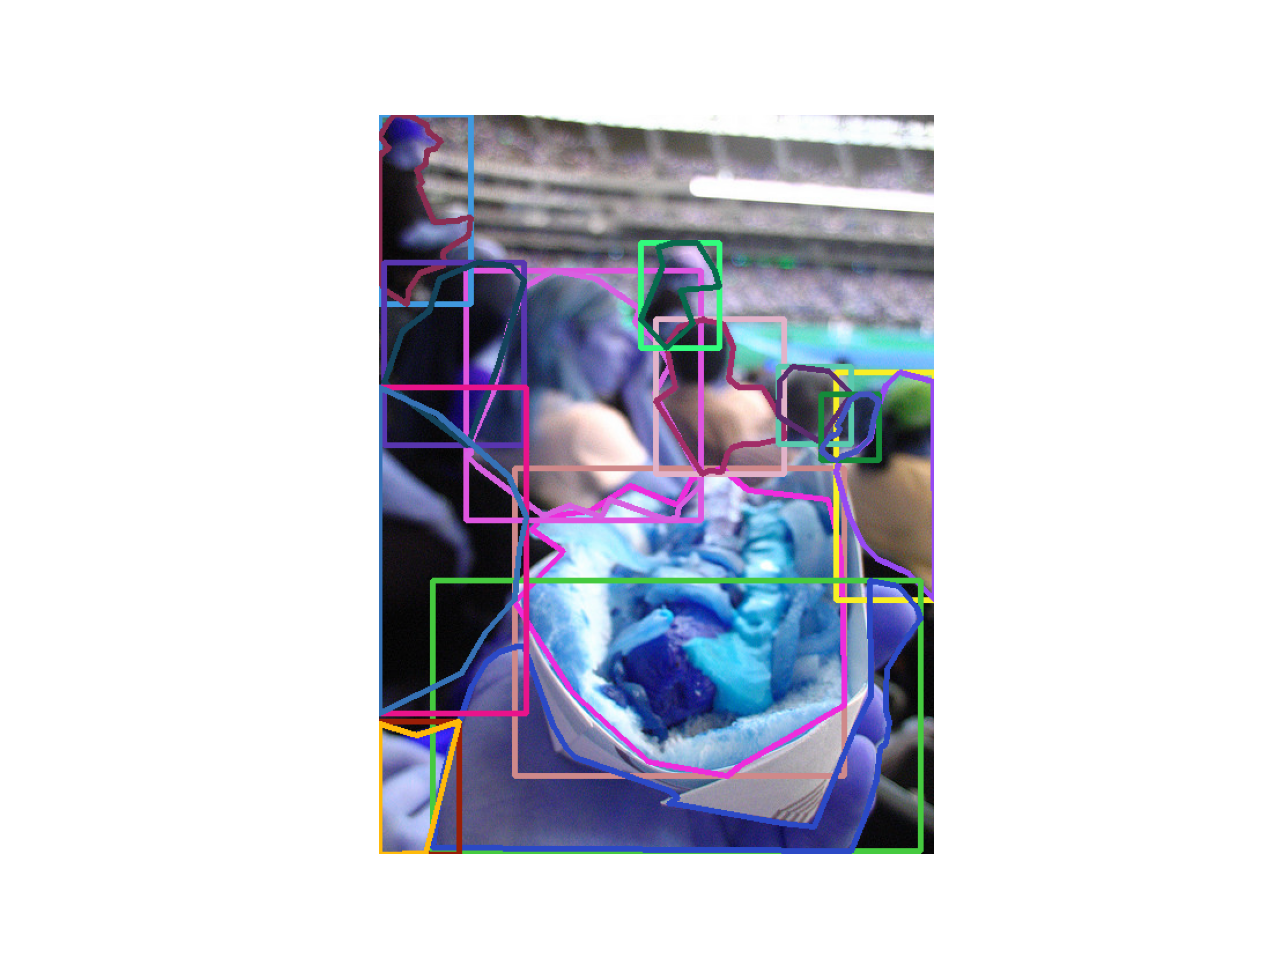
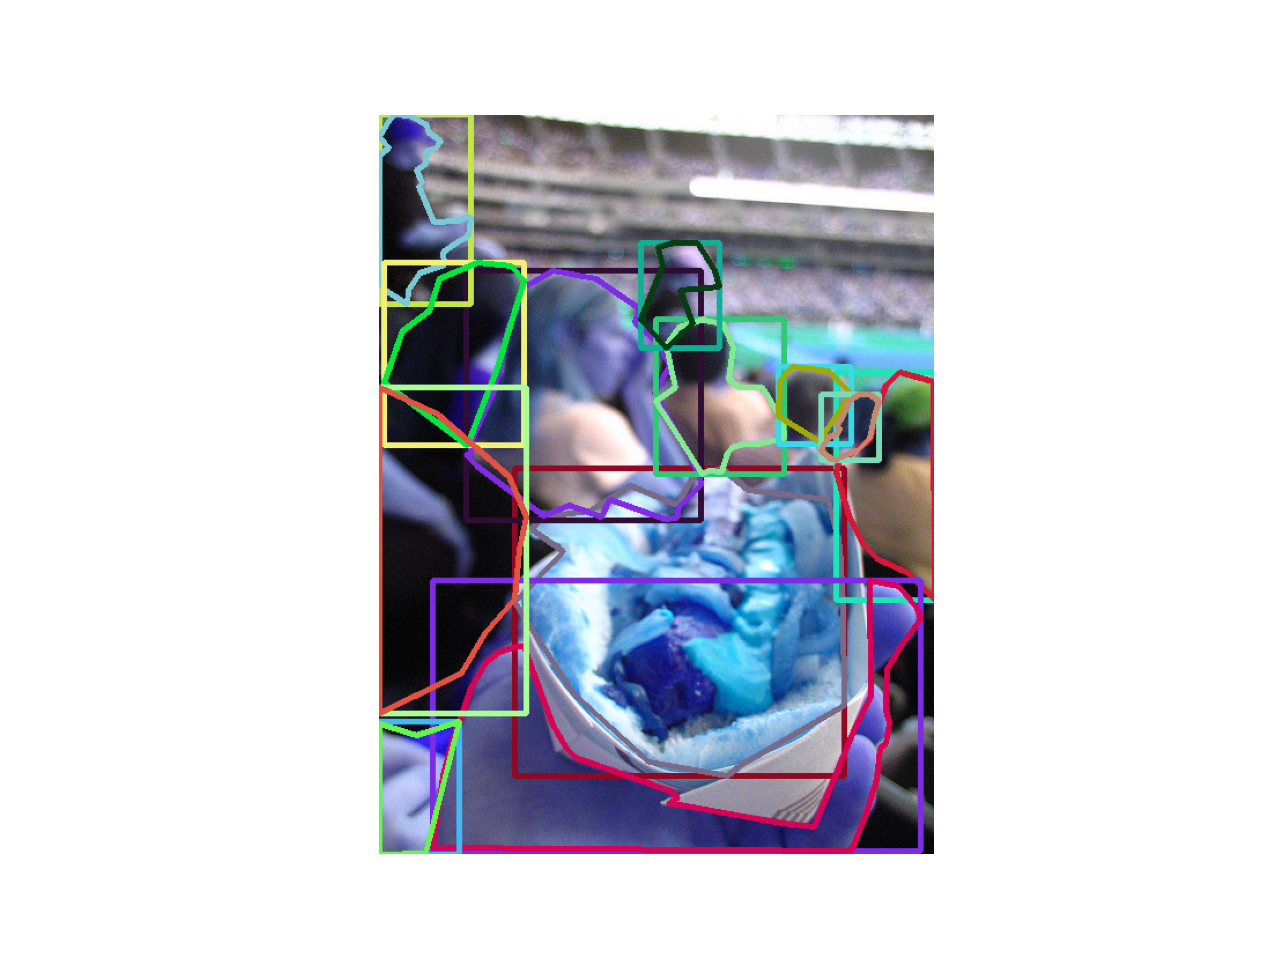
3/26 update -2

Changed region(s): [[0.2812, 0.0938, 0.75, 0.9062]]

diff --git a/coco_visualize_2.py b/coco_visualize_2.py
@@ -8,7 +8,8 @@ from typing import Dict, Tuple, Any, List, Union
 import numpy as np
 import random
 
-import pycocotools
+from pycocotools import mask
+from skimage import measure
 
 
 class CocoDataset:
@@ -27,7 +28,8 @@ class CocoDataset:
                     'id': v['id'],
                     'category_id': self.categories.get(v['category_id']),
                     'bbox': bbox,
-                    'segmentation': np.array(v['segmentation'], dtype=object)
+                    'segmentation': np.array(v['segmentation'], dtype=object),
+                    'iscrowd': v['iscrowd'],
                 }
             )
     def __getitem__(self, index: int) -> Tuple[str, List[Dict[str, Any]]]:
@@ -60,9 +62,9 @@ def draw_masks(
     colors: Dict[str, Tuple[int]]
     ) -> np.ndarray:
     for v in annotations:
-        print('\nannotations:', annotations)
-        print('\nv:', v)
-        print("\nv['segmentation']:", v['segmentation'])
+        # print('\nannotations:', annotations)
+        # print('\nv:', v)
+        # print("\nv['segmentation']:", v['segmentation'])
         for seg in v['segmentation']:
             x_segs = [round(loc) for i, loc in enumerate(seg)
                         if i % 2 == 0]
@@ -103,9 +105,23 @@ def show_fig_4x4(images: List[np.ndarray], file_names: List[str]) -> None:
     plt.show()
     fig.savefig('coco_random_idx_4x4.png')
 
-def RLE2Polygon(RLE):
-    return
-    
+def RLE2Polygon(segmentation: np.ndarray) -> List[float]:
+    segmentation = segmentation.tolist()
+    compressed_rle = mask.frPyObjects(
+        segmentation, 
+        segmentation.get('size')[0], 
+        segmentation.get('size')[1]
+        )
+    ground_truth_binary_mask = mask.decode(compressed_rle)
+    contours = measure.find_contours(ground_truth_binary_mask, 0.5)
+    segmentations = []
+    for contour in contours:
+        contour = np.flip(contour, axis=1)
+        segmentation = contour.ravel().tolist()
+        segmentations.append(segmentation)
+
+    return segmentations
+        
 
 if __name__ == '__main__':
     coco = CocoDataset('../coco/annotations/instances_train2014.json')
@@ -113,9 +129,22 @@ if __name__ == '__main__':
     num_images = list(range(len(coco)))
     random.shuffle(num_images)
     random_idxs = num_images[:4]
-    print(coco[random_idxs[0]])
-    print(random_idxs)
-    
+
+    for i, idx in enumerate(random_idxs):
+        print(f'{i + 1}. type of annotations:', type(coco[idx][1]))
+        for j, annotation in enumerate(coco[idx][1]):
+            #print('annotation:', annotation)
+            #print('segmenation:', annotation['segmentation'])
+            print('category_id:', annotation['category_id'])
+            print('type of segmentation:', type(annotation['segmentation']))
+            print('type of bbox:', type(annotation['bbox']))
+            print('iscrowd:', annotation['iscrowd'])
+            #print('type of iscrowd:', type(annotation['iscrowd']))
+            print()
+            if annotation['iscrowd'] == 1:
+                coco[idx][1][j]['segmentation'] = RLE2Polygon(annotation['segmentation'])
+                print('new:', coco[idx][1][j]['segmentation'])
+
     image_list = []
     file_names = []
     for idx in random_idxs:
